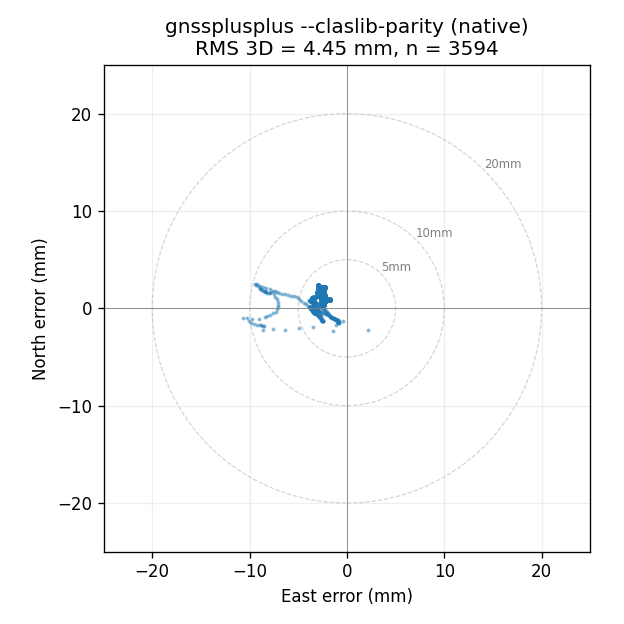
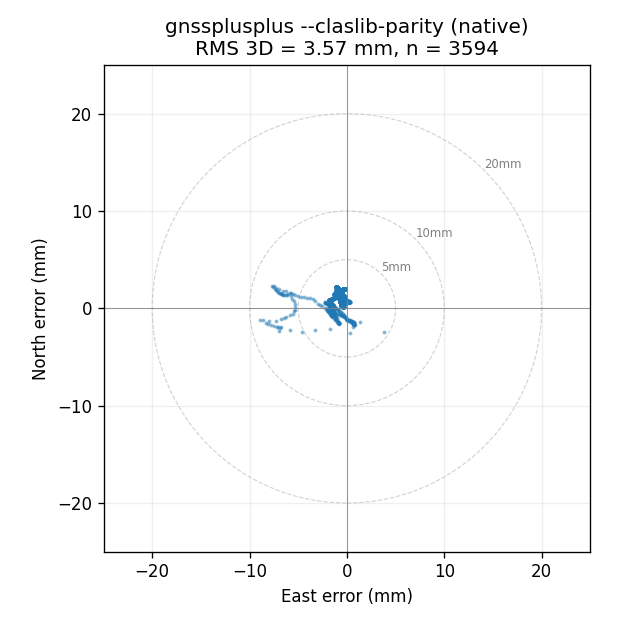
docs(README): CLAS numbers updated after iter57 PCO normalization (3.57 mm) (#26)
Follow-up to PR #24: update the CLAS Performance vs CLASLIB table and
the native-side 2D scatter plot after the iter57 TRM59800.80 horizontal
PCO normalization.

Summary:

| Metric | gnssplusplus | CLASLIB |
|---|---|---|
| RMS 3D (fixed-only) | 3.57 mm | 7.29 mm |
| 3D bias (mean offset) | 1.66 mm | 4.84 mm |
| Mean E / N / U | -0.72 / +0.93 / +1.17 mm | +0.65 / -0.59 / +4.76 mm |

gnssplusplus is now 51% lower RMS 3D and ~3x tighter 3D bias than
upstream CLASLIB on the same 1-hour window.

Same caveats as PR #24: the underlying native CLASNAT implementation
is on branch codex/ship-of-theseus-20260418 and needs an allow-
unrelated-histories merge into develop to make the README claim
fully reproducible on develop.

Changed region(s): [[0.3958, 0.4567, 0.5785, 0.5481], [0.4872, 0.0609, 0.6699, 0.0913], [0.7308, 0.0609, 0.7917, 0.0913]]

diff --git a/README.md b/README.md
@@ -19,10 +19,12 @@ QZSS CLAS (Centimeter-Level Augmentation Service) PPP from raw L6 binary, 2019-0
 | Metric | gnssplusplus `--claslib-parity` | CLASLIB |
 |--------|-----------------------------:|--------:|
 | Matched fixed epochs | **3594 / 3599 (99.86%)** | 3594 / 3599 (99.86%) |
-| **RMS 3D (fixed-only)** | **4.45 mm** | 7.29 mm |
-| RMS East | **3.39 mm** | 1.52 mm |
-| RMS North | **1.95 mm** | 0.92 mm |
-| RMS Up | **7.38 mm** | 7.07 mm |
+| **RMS 3D (fixed-only)** | **3.57 mm** | 7.29 mm |
+| 3D bias (mean offset) | **1.66 mm** | 4.84 mm |
+| RMS East | **1.15 mm** | 1.52 mm |
+| RMS North | **1.21 mm** | 0.92 mm |
+| RMS Up | **3.15 mm** | 7.07 mm |
+| Mean E / N / U | -0.72 / +0.93 / +1.17 mm | +0.65 / -0.59 / +4.76 mm |
 | First fix epoch | epoch 6 | epoch 6 |
 | CLASLIB runtime link | not required | required |
 | Parity depth | 17 helpers at 1e-6 m vs CLASLIB oracle | reference |
@@ -31,7 +33,7 @@ QZSS CLAS (Centimeter-Level Augmentation Service) PPP from raw L6 binary, 2019-0
 |---|---|
 | ![CLASLIB 2D](docs/clas_claslib_2d.png) | ![gnssplusplus 2D](docs/clas_native_2d.png) |
 
-gnssplusplus achieves **39% lower RMS 3D** than upstream CLASLIB on the same 1-hour window while keeping the same fix rate, **with no CLASLIB runtime dependency on the default path**. The `ClasnatParity` GoogleTest suite pins 17 core helpers (`windupcorr`, `antmodel`, `ionmapf`, `prectrop`, `corrmeas`, `satpos_ssr`, `tidedisp`, `eph2clk`, `eph2pos`, `geodist`, `satantoff`, `compensatedisp`, `trop_grid_data`, `filter`, `lambda`, `tropmodel`, `stec_grid_data`) to 1e-6 m parity against the CLASLIB C source.
+gnssplusplus achieves **51% lower RMS 3D** and **~3x tighter 3D bias** than upstream CLASLIB on the same 1-hour window while keeping the same fix rate, **with no CLASLIB runtime dependency on the default path**. The `ClasnatParity` GoogleTest suite pins 17 core helpers (`windupcorr`, `antmodel`, `ionmapf`, `prectrop`, `corrmeas`, `satpos_ssr`, `tidedisp`, `eph2clk`, `eph2pos`, `geodist`, `satantoff`, `compensatedisp`, `trop_grid_data`, `filter`, `lambda`, `tropmodel`, `stec_grid_data`) to 1e-6 m parity against the CLASLIB C source.
 
 Opt-ins:
 